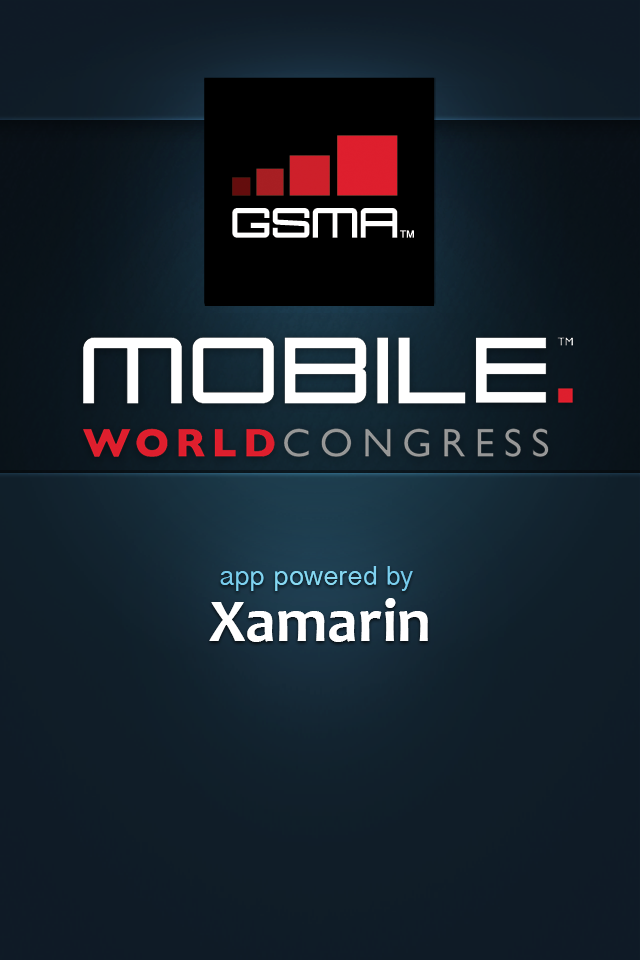
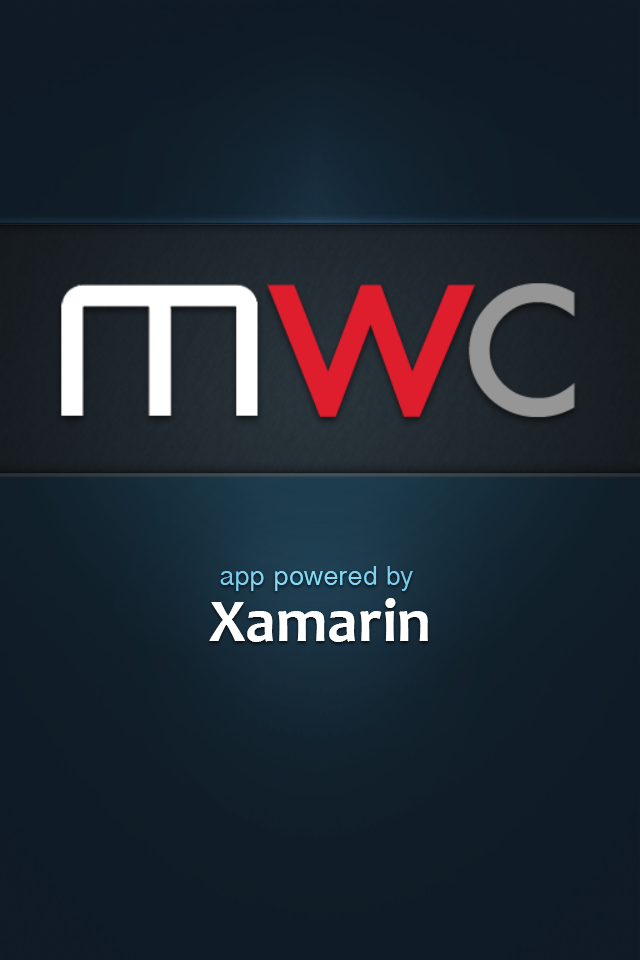
iOS: update branding

Changed region(s): [[0.0938, 0.0625, 0.9062, 0.5], [0.8438, 0.2188, 1.0, 0.25], [0.0, 0.2188, 0.1562, 0.25]]

diff --git a/MWC/MWC.iOS/AL/DaysTableSource.cs b/MWC/MWC.iOS/AL/DaysTableSource.cs
@@ -25,14 +25,21 @@ namespace MWC.iOS.AL {
 			
 			cell.TextLabel.Text = this.days[indexPath.Row].ToString ("dddd");
 			cell.TextLabel.Font = UIFont.FromName("Helvetica-Bold", 18f);
-			cell.TextLabel.TextColor = UIColor.White;
-
+			
 			cell.DetailTextLabel.Text = this.days[indexPath.Row].ToString("d MMMM yyyy");
-			cell.DetailTextLabel.TextColor = UIColor.LightGray;
 			cell.DetailTextLabel.Font = UIFont.FromName("Helvetica-Light", 12f);
 			
-			cell.BackgroundColor = UIColor.Black;
-			
+			if (AppDelegate.IsPhone) {
+				cell.TextLabel.TextColor = UIColor.White;
+				cell.DetailTextLabel.TextColor = UIColor.LightGray;
+				cell.BackgroundColor = UIColor.Black;
+			} else {
+				cell.TextLabel.Font = UIFont.FromName("Helvetica-Light", AppDelegate.Font16pt);
+				cell.TextLabel.TextColor = UIColor.Black;
+				cell.DetailTextLabel.Font = UIFont.FromName("Helvetica-LightOblique", AppDelegate.Font9pt);
+				cell.DetailTextLabel.TextColor = UIColor.DarkGray;
+				cell.BackgroundColor = UIColor.White;
+			}
 			return cell;
 		}
 		
